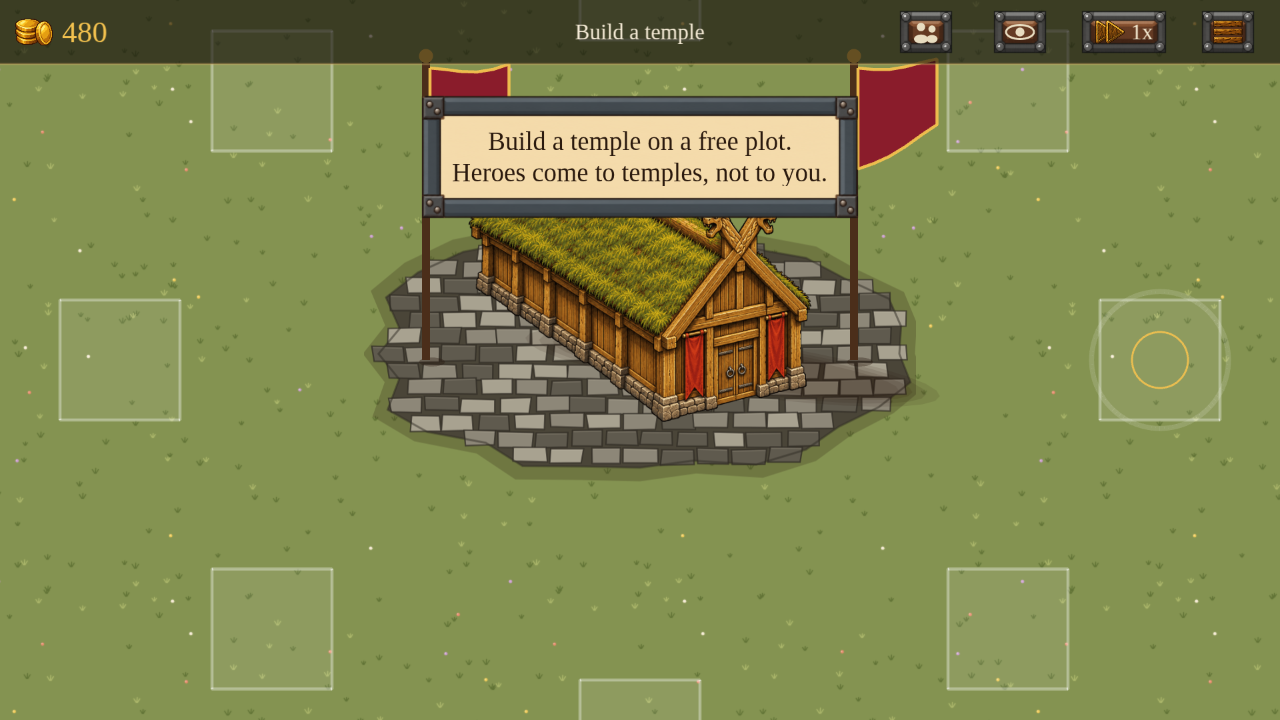
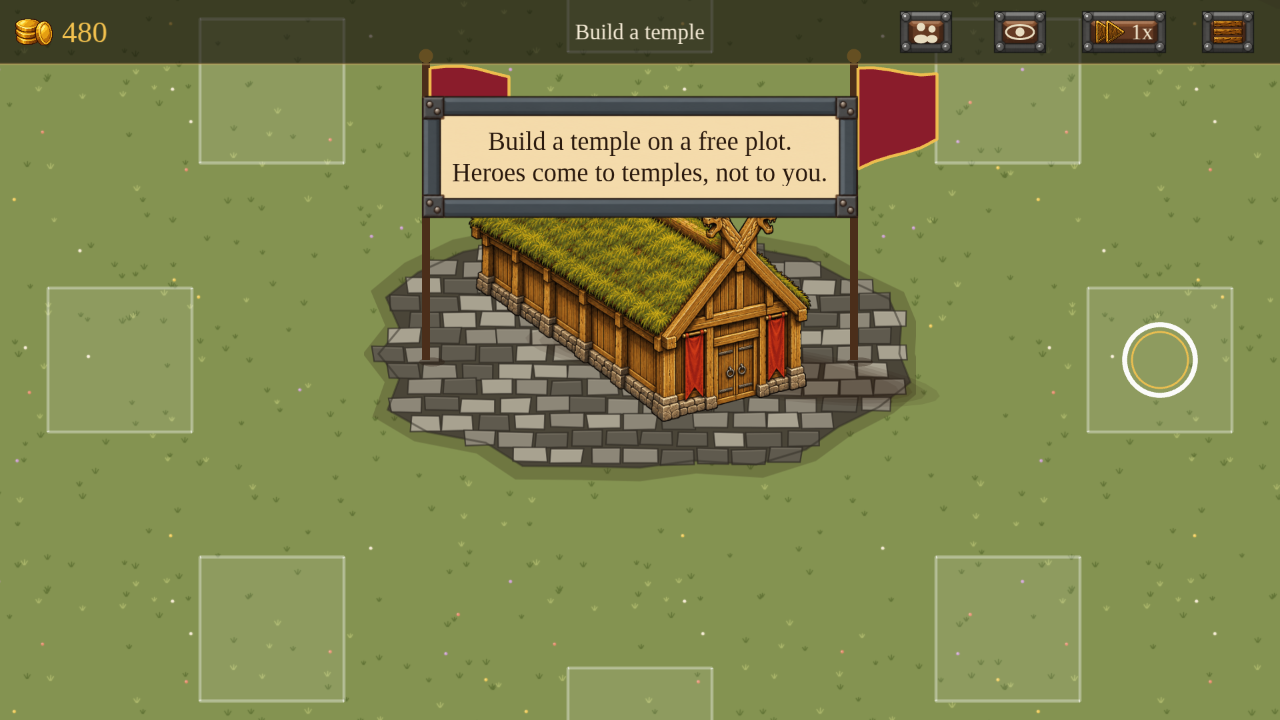
feat(scene): plot frames and their tap radius 1.2x with the buildings
Claude-Session: https://claude.ai/code/session_01EDKMoTWRabZMeHFkhrUDvd

diff --git a/src/scenes/MapScene.ts b/src/scenes/MapScene.ts
@@ -92,9 +92,9 @@ const FOOT_Y = -6;
 // How long the camera takes to show the levelled party before its cards come up.
 const FOCUS_MS = 700;
 const TARGET_RADIUS = 70;
-const PLOT_SIZE = 120;
+const PLOT_SIZE = 144;
 const INTEREST_MAX = 8;
-const PLOT_RADIUS = 110;
+const PLOT_RADIUS = 132;
 
 // The camera's start zoom: 0.7 shows 1830 x 1030 world units on a 1280 x 720 screen, enough for the
 // plot ring (about 1040 x 760) with the buildings on it.
